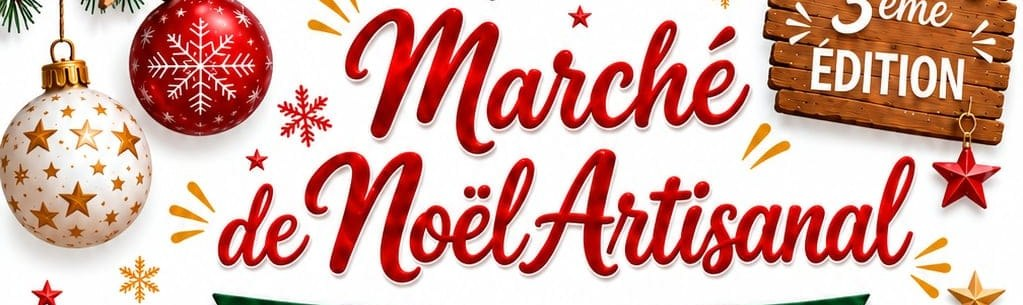
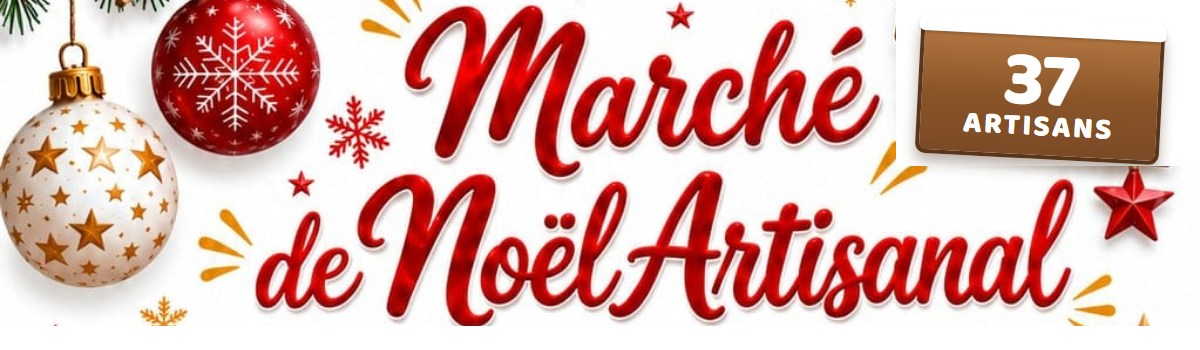
Benevoles : la prochaine manifestation s'ouvre par defaut ; banniere Marche de Noel
- Page /benevoles : les manifestations sont classees par date (la prochaine
  d'abord, puis les suivantes, celles sans date, puis les passees) ; la
  premiere, donc la prochaine, s'ouvre par defaut au lieu de la premiere de
  la liste. La date vient du calendrier des evenements (par nom), a defaut du
  premier creneau a venir.
- Banniere du Marche de Noel : le panneau "3eme edition" est remplace par
  "37 artisans" et le titre n'est plus coupe ; meme badge dans l'en-tete de
  la page dediee.

diff --git a/app/api/benevoles/planning/route.js b/app/api/benevoles/planning/route.js
@@ -1,5 +1,6 @@
 import { NextResponse } from "next/server";
 import { createAdminClient } from "../../../lib/supabaseServerAdmin";
+import { chargerEvenements } from "../../../lib/evenementsSite";
 
 export const dynamic = "force-dynamic";
 export const fetchCache = "force-no-store";
@@ -76,10 +77,45 @@ export async function GET() {
   // données périmées à cause d'une mise en cache intermédiaire — on interdit
   // donc tout cache (CDN ou navigateur), pas seulement le "force-dynamic" de
   // Next.js qui ne l'empêche pas toujours pour un GET.
+  // Ordre d'affichage : la prochaine manifestation en premier (c'est elle qui
+  // s'ouvre par défaut sur la page publique), puis les suivantes par date,
+  // puis celles sans date connue, puis les manifestations passées. La date
+  // vient du calendrier des événements (rapprochement par nom) ; à défaut, du
+  // premier créneau à venir de la manifestation.
+  const norm = (t) =>
+    (t || "").toLowerCase().normalize("NFD").replace(/[̀-ͯ]/g, "").replace(/[^a-z0-9]/g, "");
+  const calendrier = await chargerEvenements();
+  const dateParNom = new Map(calendrier.map((e) => [norm(e.name), e.endDate || e.date]));
+  const aujourdhui = new Date().toISOString().slice(0, 10);
+
+  const liste = evenements.map((e) => {
+    const ateliersE = ateliersParEvenement[e.id] || [];
+    let dateRef = dateParNom.get(norm(e.nom)) || null;
+    if (!dateRef) {
+      const futurs = ateliersE
+        .flatMap((a) => a.creneaux)
+        .map((c) => (c.debut || "").slice(0, 10))
+        .filter((d) => d >= aujourdhui)
+        .sort();
+      dateRef = futurs[0] || null;
+    }
+    return { ...e, ateliers: ateliersE, dateReference: dateRef };
+  });
+
+  const rang = (e) => (!e.dateReference ? 1 : e.dateReference >= aujourdhui ? 0 : 2);
+  liste.sort(
+    (a, b) =>
+      rang(a) - rang(b) ||
+      (rang(a) === 2
+        ? b.dateReference.localeCompare(a.dateReference)
+        : (a.dateReference || "").localeCompare(b.dateReference || "")) ||
+      a.nom.localeCompare(b.nom, "fr")
+  );
+
   return NextResponse.json(
     {
       ok: true,
-      evenements: evenements.map((e) => ({ ...e, ateliers: ateliersParEvenement[e.id] || [] })),
+      evenements: liste,
     },
     { headers: { "Cache-Control": "no-store, must-revalidate" } }
   );

diff --git a/app/evenements/marche-de-noel/page.js b/app/evenements/marche-de-noel/page.js
@@ -62,7 +62,7 @@ export default function MarcheDeNoelPage() {
               ← Tous les événements
             </Link>
             <p className="mt-6 inline-block rounded-full bg-sou-gold/90 text-[#12392b] text-xs font-bold uppercase tracking-wider px-3 py-1">
-              3<sup>e</sup> édition
+              37 artisans
             </p>
             <h1 className="mt-4 text-4xl sm:text-6xl font-bold leading-[1.05]">
               Marché de Noël <span className="text-[#f2c879]">artisanal</span>
